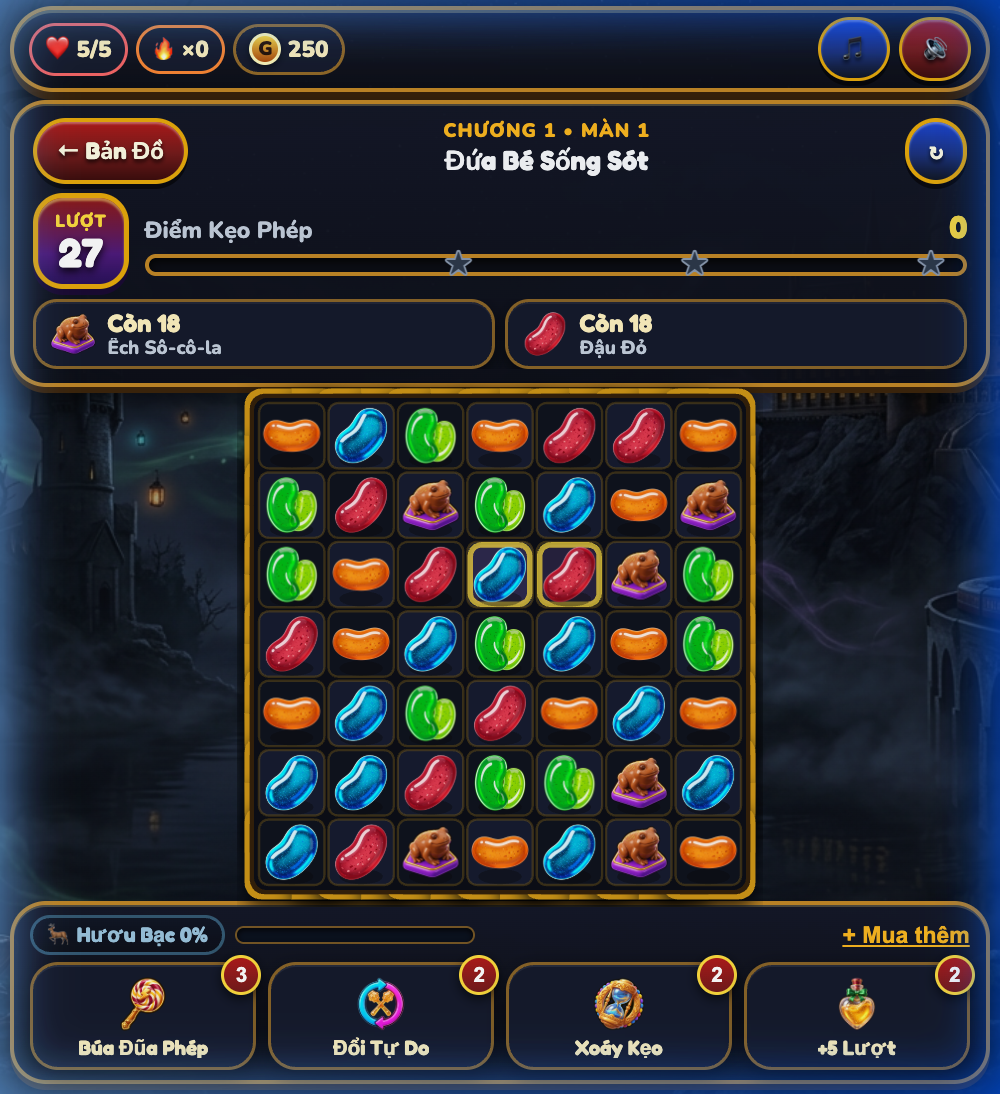
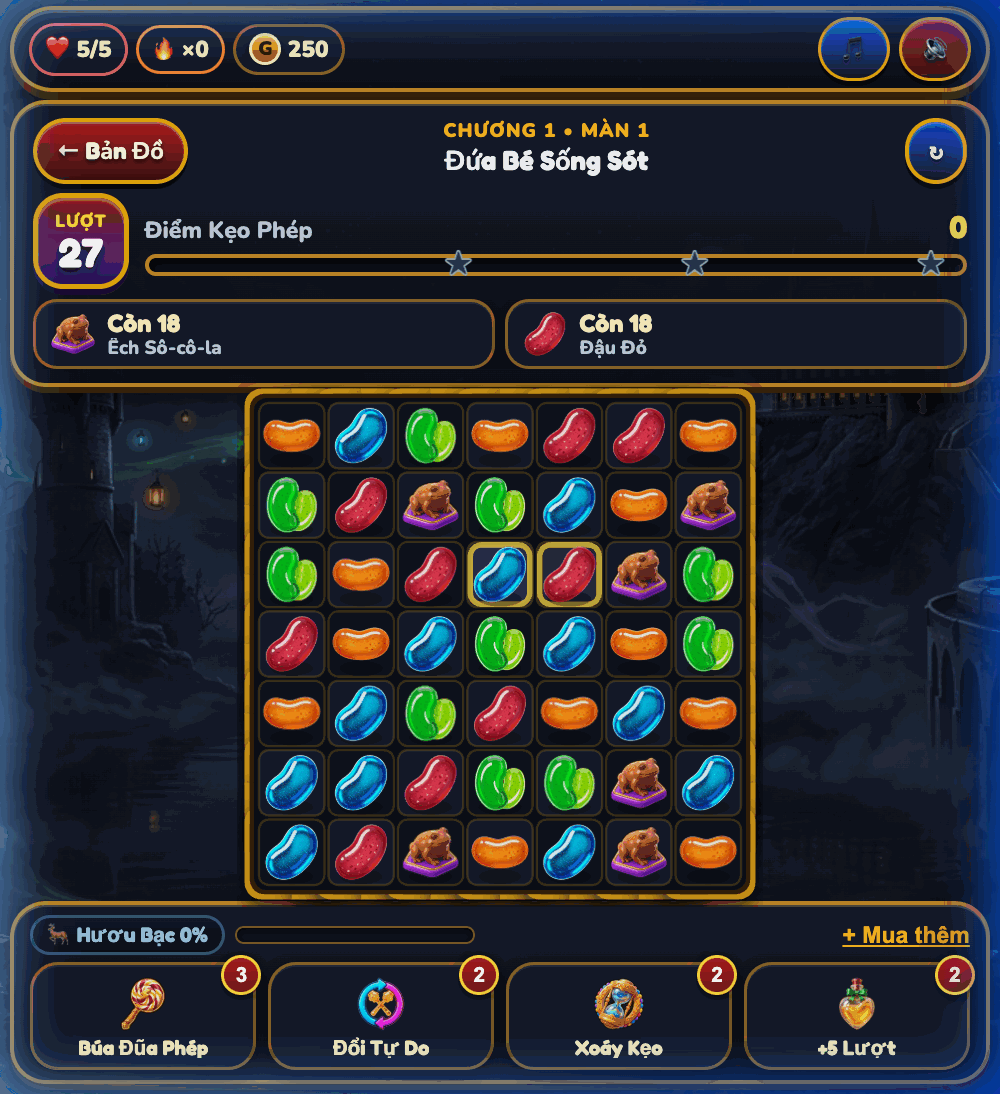
perf: compress webapp images to WebP and enable gzip/brotli asset bundles

diff --git a/src/data/lore.js b/src/data/lore.js
@@ -199,8 +199,8 @@ export const TILE_TYPES = [
     color: '#e6192e',
     light: '#ff6b7a',
     dark: '#9e0014',
-    img: '/assets/candy-0.png',
-    svg: `<img src="/assets/candy-0.png" alt="Kẹo Đậu Đỏ Bertie" draggable="false" />`
+    img: '/assets/candy-0.webp',
+    svg: `<img src="/assets/candy-0.webp" alt="Kẹo Đậu Đỏ Bertie" draggable="false" />`
   },
   {
     id: 1,
@@ -210,8 +210,8 @@ export const TILE_TYPES = [
     color: '#ff7b00',
     light: '#ffb84d',
     dark: '#b85000',
-    img: '/assets/candy-1.png',
-    svg: `<img src="/assets/candy-1.png" alt="Kẹo Đậu Cam Bí Ngô" draggable="false" />`
+    img: '/assets/candy-1.webp',
+    svg: `<img src="/assets/candy-1.webp" alt="Kẹo Đậu Cam Bí Ngô" draggable="false" />`
   },
   {
     id: 2,
@@ -221,8 +221,8 @@ export const TILE_TYPES = [
     color: '#1ec92a',
     light: '#74ff7d',
     dark: '#0a7d12',
-    img: '/assets/candy-2.png',
-    svg: `<img src="/assets/candy-2.png" alt="Kẹo Đậu Đôi Xanh Lá" draggable="false" />`
+    img: '/assets/candy-2.webp',
+    svg: `<img src="/assets/candy-2.webp" alt="Kẹo Đậu Đôi Xanh Lá" draggable="false" />`
   },
   {
     id: 3,
@@ -232,8 +232,8 @@ export const TILE_TYPES = [
     color: '#0ea5e9',
     light: '#7dd3fc',
     dark: '#035fa3',
-    img: '/assets/candy-3.png',
-    svg: `<img src="/assets/candy-3.png" alt="Kẹo Đậu Lam Việt Quất" draggable="false" />`
+    img: '/assets/candy-3.webp',
+    svg: `<img src="/assets/candy-3.webp" alt="Kẹo Đậu Lam Việt Quất" draggable="false" />`
   },
   {
     id: 4,
@@ -243,8 +243,8 @@ export const TILE_TYPES = [
     color: '#9333ea',
     light: '#f5b041',
     dark: '#5b2c06',
-    img: '/assets/candy-4.png',
-    svg: `<img src="/assets/candy-4.png" alt="Ếch Sô-cô-la" draggable="false" />`
+    img: '/assets/candy-4.webp',
+    svg: `<img src="/assets/candy-4.webp" alt="Ếch Sô-cô-la" draggable="false" />`
   },
   {
     id: 5,
@@ -254,8 +254,8 @@ export const TILE_TYPES = [
     color: '#ffc400',
     light: '#fff066',
     dark: '#b88600',
-    img: '/assets/candy-5.png',
-    svg: `<img src="/assets/candy-5.png" alt="Kẹo Đậu Vàng Chanh Sủi" draggable="false" />`
+    img: '/assets/candy-5.webp',
+    svg: `<img src="/assets/candy-5.webp" alt="Kẹo Đậu Vàng Chanh Sủi" draggable="false" />`
   }
 ];
 
@@ -277,9 +277,9 @@ export const OBSTACLE_ICONS = {
   horcrux: `<svg viewBox="0 0 44 44" aria-hidden="true"><polygon points="22,3 38,14 34,36 22,41 10,36 6,14" fill="#1e1b4b" stroke="#fde047" stroke-width="2.8"/><polygon points="22,10 31,18 28,32 22,35 16,32 13,18" fill="#064e3b" stroke="#34d399" stroke-width="2"/><circle cx="22" cy="22" r="4.5" fill="#a855f7" stroke="#fef08a" stroke-width="1.8"/></svg>`,
   boss: `<svg viewBox="0 0 44 44" aria-hidden="true"><polygon points="22,3 39,13 35,35 22,41 9,35 5,13" fill="#581c87" stroke="#fde047" stroke-width="2.8"/><path d="M15 19L20 23M29 19L24 23" stroke="#f87171" stroke-width="3" stroke-linecap="round"/><path d="M16 31C19 28 25 28 28 31" stroke="#fde047" stroke-width="2.6" stroke-linecap="round"/></svg>`,
   score: `<svg viewBox="0 0 44 44" aria-hidden="true"><path d="M22 4L27.5 15.5L40 17.3L31 26.1L33.1 38.5L22 32.6L10.9 38.5L13 26.1L4 17.3L16.5 15.5L22 4Z" fill="#f59e0b" stroke="#fef9c3" stroke-width="2.6"/></svg>`,
-  special_striped: `<img src="/assets/candy-0-sh.png" alt="Kẹo Sọc Phép" draggable="false" />`,
-  special_wrapped: `<img src="/assets/candy-2-wrapped.png" alt="Gói Kẹo Bọc" draggable="false" />`,
-  special_color_bomb: `<img src="/assets/candy-colorbomb.png" alt="Cầu Đậu Ngũ Sắc" draggable="false" />`,
+  special_striped: `<img src="/assets/candy-0-sh.webp" alt="Kẹo Sọc Phép" draggable="false" />`,
+  special_wrapped: `<img src="/assets/candy-2-wrapped.webp" alt="Gói Kẹo Bọc" draggable="false" />`,
+  special_color_bomb: `<img src="/assets/candy-colorbomb.webp" alt="Cầu Đậu Ngũ Sắc" draggable="false" />`,
   special_seeker: `<svg viewBox="0 0 44 44" aria-hidden="true"><path d="M3 16C10 10 15 14 17 20C11 22 6 21 3 16Z" fill="#fde047"/><path d="M41 16C34 10 29 14 27 20C33 22 38 21 41 16Z" fill="#fde047"/><circle cx="22" cy="23" r="10" fill="#f59e0b" stroke="#fef9c3" stroke-width="2.5"/></svg>`
 };
 
@@ -1018,7 +1018,7 @@ export const BOOSTERS = [
     shortName: 'Búa Đũa Phép',
     desc: 'Vung Búa Kẹo Đũa Phép đập vỡ ngay 1 viên kẹo, gỡ Bom, phá Khiên Linh Giá hoặc 1 lớp Vật Cản không tốn lượt!',
     price: 90,
-    iconSvg: `<img src="/assets/booster-lollipop.png" alt="Búa Kẹo Đũa Phép" draggable="false" />`
+    iconSvg: `<img src="/assets/booster-lollipop.webp" alt="Búa Kẹo Đũa Phép" draggable="false" />`
   },
   {
     id: 'swap',
@@ -1026,7 +1026,7 @@ export const BOOSTERS = [
     shortName: 'Đổi Tự Do',
     desc: 'Vẫy đũa phép hoán đổi tự do 2 viên Kẹo Bertie hoặc Ếch Sô-cô-la liền kề không tốn lượt đi.',
     price: 110,
-    iconSvg: `<img src="/assets/booster-swap.png" alt="Đũa Phép Đổi Kẹo" draggable="false" />`
+    iconSvg: `<img src="/assets/booster-swap.webp" alt="Đũa Phép Đổi Kẹo" draggable="false" />`
   },
   {
     id: 'shuffle',
@@ -1034,7 +1034,7 @@ export const BOOSTERS = [
     shortName: 'Xoáy Kẹo',
     desc: 'Xoay Đồng Hồ Cát Đường Vàng xáo trộn toàn bộ kẹo trên bàn cờ để mở chuỗi Combo mới!',
     price: 80,
-    iconSvg: `<img src="/assets/booster-shuffle.png" alt="Kẹo Xoáy Thời Gian" draggable="false" />`
+    iconSvg: `<img src="/assets/booster-shuffle.webp" alt="Kẹo Xoáy Thời Gian" draggable="false" />`
   },
   {
     id: 'extraMoves',
@@ -1042,7 +1042,7 @@ export const BOOSTERS = [
     shortName: '+5 Lượt',
     desc: 'Nhấp mật kẹo vàng Phúc Lạc Dược cộng ngay +5 lượt đi (và lùi +5 nhịp Bom Đếm Ngược)!',
     price: 140,
-    iconSvg: `<img src="/assets/booster-extramoves.png" alt="Kẹo Phúc Lạc +5" draggable="false" />`
+    iconSvg: `<img src="/assets/booster-extramoves.webp" alt="Kẹo Phúc Lạc +5" draggable="false" />`
   }
 ];
 
@@ -1054,7 +1054,7 @@ export const PREGAME_BOOSTERS = [
     shortName: 'Cầu Ngũ Sắc',
     desc: 'Đặt sẵn 1 Cầu Sô-cô-la Đính Đậu Đủ Vị ngay khi mở bàn cờ!',
     price: 95,
-    iconSvg: `<img src="/assets/candy-colorbomb.png" alt="Cầu Đậu Đầu Trận" draggable="false" />`
+    iconSvg: `<img src="/assets/candy-colorbomb.webp" alt="Cầu Đậu Đầu Trận" draggable="false" />`
   },
   {
     id: 'pre_striped_wrapped',
@@ -1062,7 +1062,7 @@ export const PREGAME_BOOSTERS = [
     shortName: 'Sọc + Bọc',
     desc: 'Đặt sẵn 1 Kẹo Sọc + 1 Gói Kẹo Bọc Giấy nổ 2 nhịp ngay lượt đầu!',
     price: 85,
-    iconSvg: `<img src="/assets/candy-0-wrapped.png" alt="Cặp Sọc và Bọc" draggable="false" />`
+    iconSvg: `<img src="/assets/candy-0-wrapped.webp" alt="Cặp Sọc và Bọc" draggable="false" />`
   },
   {
     id: 'pre_lucky_seeker',

diff --git a/src/engine/renderer2d.js b/src/engine/renderer2d.js
@@ -59,17 +59,22 @@ export class BoardRenderer {
         this.bgDirty = true;
         this.onSpriteReady?.();
       };
+      img.onerror = () => {
+        if (url.endsWith('.webp')) {
+          img.src = url.replace(/\.webp$/, '.png');
+        }
+      };
       img.src = url;
       this.sprites[key] = img;
     };
 
     for (let i = 0; i < 6; i++) {
-      load(`c_${i}`, `/assets/candy-${i}.png`);
-      load(`c_${i}_sh`, `/assets/candy-${i}-sh.png`);
-      load(`c_${i}_sv`, `/assets/candy-${i}-sv.png`);
-      load(`c_${i}_wr`, `/assets/candy-${i}-wrapped.png`);
+      load(`c_${i}`, `/assets/candy-${i}.webp`);
+      load(`c_${i}_sh`, `/assets/candy-${i}-sh.webp`);
+      load(`c_${i}_sv`, `/assets/candy-${i}-sv.webp`);
+      load(`c_${i}_wr`, `/assets/candy-${i}-wrapped.webp`);
     }
-    load('color_bomb', '/assets/candy-colorbomb.png');
+    load('color_bomb', '/assets/candy-colorbomb.webp');
   }
 
   getSpriteForPiece(piece) {

diff --git a/index.html b/index.html
@@ -31,7 +31,7 @@
       <!-- Thanh Tiêu Đề Tiệm Kẹo Phép Thuật Công Tước Mật (Honeydukes × Hogwarts) -->
       <header class="topbar">
         <button type="button" class="brand" id="btn-home-brand" title="Về Bản Đồ 7 Năm Học Hogwarts">
-          <img src="/assets/icon-bertie-box.png" alt="" class="brand-candy-icon" />
+          <img src="/assets/icon-bertie-box.webp" alt="" class="brand-candy-icon" />
           <div class="brand-text">
             <span class="brand-title">CANDY CRUSH <span class="brand-hpvn">HOGWARTS</span></span>
             <span class="brand-sub">7 Năm Học Phép Thuật • 77 Chương • 7.777 Màn</span>
